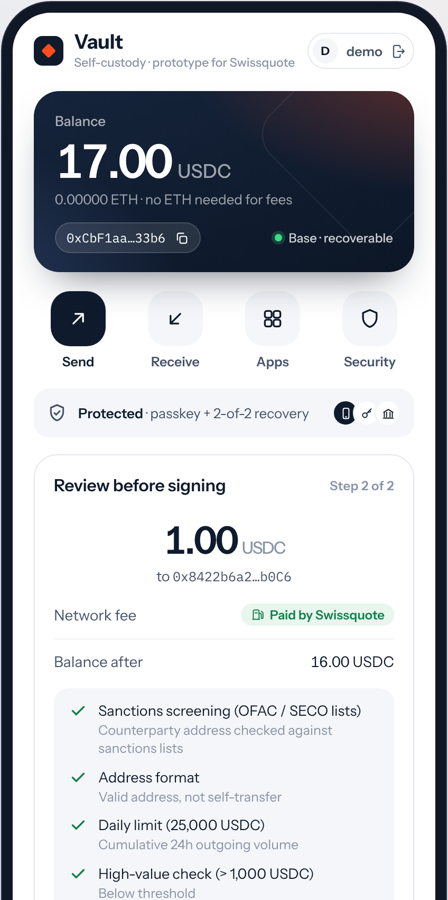
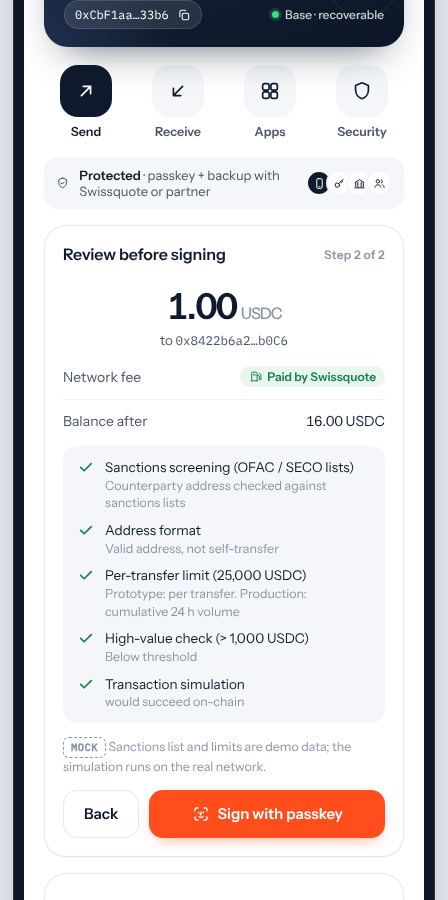
Pre-submission audit: judge-facing overview, team notes separated, fixes
- docs/overview.md: the six required topics on one page; README points to it.
- team-only/: demo script, pitch, cheat sheet, checklist, submission text
  (to delete before the final submission); no judge-facing file links there.
- Recovery addresses are fixed at creation (bank and partner refuse to
  change them); guardians require the on-chain recovery header.
- architecture.md: fix two mermaid diagrams that failed to render.
- Node 22.12+ in run instructions; partner vars in .env.example; favicon;
  removed unused Vite template assets.
- Wording: per-transfer limit, recovery step order, business-case
  sensitivity at the H1 2026 run-rate, stale comments.

Claude-Session: https://claude.ai/code/session_013BkfJFCQ49aivL3knNVtxx

diff --git a/app/src/screens/Recover.tsx b/app/src/screens/Recover.tsx
@@ -21,11 +21,11 @@ import { appendActivity } from "../lib/activity"
  * Lost-phone recovery, as the client experiences it on a NEW device:
  *   1. new passkey            (this device)
  *   2. request to Swissquote  (bank verifies identity, notifies old devices, starts the delay)
- *   3. backup key signature   (checked against the Vault's recovery keys ON-CHAIN first)
+ *   3. backup key signature   (checked against the registered backup key and the on-chain recovery header first)
  *   4. bank signature         (after the delay, unless the old device cancelled; the bank
  *                              verifies the backup approval before it co-signs)
  * Includes a demo of the bonus scenario: an attacker with the stolen phone and email inbox
- * is refused, both by the on-chain key check and by Swissquote.
+ * is refused, both by the backup-key check and by Swissquote.
  *   5. on-chain: passkey replaced, same Vault address, same funds
  */
 export function Recover({
@@ -100,7 +100,7 @@ export function Recover({
     run(async () => {
       if (!prepared) throw new Error("no prepared passkey")
       setAttack(null)
-      // Checked against the Vault's recovery keys on-chain before anything is signed.
+      // Checked against the registered backup key and the on-chain recovery header before anything is signed.
       const check = await checkBackupKey(existing.walletAddress, backupKey, await knownKeys())
       if (!check.ok) throw new Error(check.reason)
       const res = await approveWithBackupKey(existing.walletAddress, check.setup, check.key, prepared.callData)
@@ -235,8 +235,8 @@ export function Recover({
             <>
               <Countdown secondsLeft={secondsLeft} total={total} />
               <p className="hint center-text">
-                <span className="mock-tag">MOCK</span> Delay enforced by the mock Swissquote guardian. Your old devices can cancel during this time. A thief holding your old phone would need your Face ID or
-                your e-banking login to cancel — they have neither.
+                <span className="mock-tag">MOCK</span> Delay enforced by the mock Swissquote guardian. Your old devices can cancel during this time. A thief holding your old phone would need your Face ID (or
+                your e-banking login) to cancel.
               </p>
             </>
           )}

diff --git a/app/src/lib/onchainRecovery.ts b/app/src/lib/onchainRecovery.ts
@@ -1,9 +1,9 @@
 /**
- * The recovery rules, read from and checked against the blockchain.
+ * The recovery rules, checked against the blockchain's recovery header.
  *
  * Pure module (viem only, no browser APIs): used by the app AND by the two guardian
  * services (server/index.ts = Swissquote, server/partner.ts = independent partner),
- * so all three agree on one source of truth: the weighted validator's storage on-chain.
+ * so all three apply the same rules.
  *
  * Recovery keys of a new Vault (threshold 100):
  *   client backup key      60   always required (60 < 100 alone)
@@ -91,7 +91,12 @@ export type KnownKeys = { backup: Address; swissquote: Address; partner?: Addres
  * Note: the validator's per-guardian getter doesn't decode with the SDK's published ABI, so the keys
  * themselves come from the registration; the contract still enforces them on every recovery.
  */
-export async function readRecoverySetup(client: Client, wallet: Address, known: KnownKeys): Promise<RecoverySetup | null> {
+export async function readRecoverySetup(
+  client: Client,
+  wallet: Address,
+  known: KnownKeys,
+  { strict = false }: { strict?: boolean } = {},
+): Promise<RecoverySetup | null> {
   let header: { total: number; threshold: number; count: number } | null = null
   try {
     const [total, threshold, , count] = await readContract(client, {
@@ -102,6 +107,8 @@ export async function readRecoverySetup(client: Client, wallet: Address, known: 
     })
     header = { total: Number(total), threshold: Number(threshold), count: Number(count) }
   } catch (e) {
+    // Guardians (strict) never co-sign without the on-chain check; the app may fall back for display.
+    if (strict) throw new Error("could not read the Vault's recovery setup from the chain; try again")
     console.warn("could not read the recovery header; using the registered configuration", e)
   }
   if (header && (header.threshold === 0 || header.count === 0)) return null

diff --git a/app/server/guardian.ts b/app/server/guardian.ts
@@ -5,11 +5,11 @@
  * Each runs as its own process with its own key and its own storage; the client app never
  * holds either key.
  *
- * Before co-signing, a guardian checks three things against the BLOCKCHAIN, not against its
- * own database: (1) the request is a `doRecovery` call, (2) the client's backup approval is a
- * genuine signature from one of this Vault's recovery keys, and (3) that approval plus its own
- * weight reaches the threshold. So a guardian never helps a request that the chain would refuse,
- * and two guardians together (40 + 40) are refused even before they reach the chain.
+ * Before co-signing, a guardian checks: (1) the request is a `doRecovery` call, (2) the client's
+ * approval is signed by the backup address registered at creation, for this Vault's current recovery
+ * nonce, and (3) the Vault's on-chain recovery header (installed, number of keys, total weight) matches
+ * the registered keys, and the approval plus its own weight reaches the threshold. Two guardians
+ * together (40 + 40) are refused before anything reaches the chain.
  */
 import { createKernelAccount } from "@zerodev/sdk"
 import { getEntryPoint, KERNEL_V3_1 } from "@zerodev/sdk/constants"
@@ -66,7 +66,7 @@ export class Refused extends Error {
 async function setupFor(guardian: LocalAccount, wallet: Address, known: KnownKeys) {
   let setup
   try {
-    setup = await readRecoverySetup(publicClient, wallet, known)
+    setup = await readRecoverySetup(publicClient, wallet, known, { strict: true })
   } catch (e) {
     throw new Refused((e as Error).message)
   }

diff --git a/app/server/index.ts b/app/server/index.ts
@@ -120,6 +120,12 @@ app.post("/wallet", (req, res) => {
     const { walletAddress, backupAddress, partnerAddress, passkeyName } = req.body
     if (!isAddress(walletAddress) || !isAddress(backupAddress)) return res.status(400).send("bad addresses")
     if (partnerAddress !== undefined && !isAddress(partnerAddress)) return res.status(400).send("bad partner address")
+    const c = db.clients[clientId]
+    // A Vault's recovery addresses are fixed at creation: nobody (e.g. someone who reset the
+    // e-banking password) can swap in their own backup address later.
+    if (c.walletAddress?.toLowerCase() === walletAddress.toLowerCase() && c.backupAddress && c.backupAddress.toLowerCase() !== backupAddress.toLowerCase()) {
+      return res.status(409).send("recovery addresses are fixed at creation")
+    }
     // Public addresses only: Swissquote never receives the backup KEY.
     Object.assign(db.clients[clientId], { walletAddress, backupAddress, partnerAddress, passkeyName, recoveredAt: undefined })
     save(db)
@@ -331,7 +337,7 @@ app.get("/compliance/dapps", (_req, res) =>
       url: "https://app.uniswap.org",
       category: "DEX",
       contracts: ["0x94cC0AaC535CCDB3C01d6787D6413C739ae12bc4"],
-      note: "Swap tokens. Reviewed by Swissquote Digital Assets; audited; live since 2018.",
+      note: "Swap tokens. (Demo list) Reviewed by Swissquote; audited; live since 2018.",
     },
     {
       id: "aave",

diff --git a/app/server/partner.ts b/app/server/partner.ts
@@ -95,6 +95,10 @@ app.post("/register", (req, res) => {
   if (existing && existing.holder.toLowerCase() !== holder.trim().toLowerCase()) {
     return res.status(409).send("this Vault is already registered to another holder")
   }
+  // Recovery addresses are fixed at creation: they can't be swapped later.
+  if (existing?.backupAddress && getAddress(backupAddress) !== existing.backupAddress) {
+    return res.status(409).send("recovery addresses are fixed at creation")
+  }
   db.vaults[key(walletAddress)] = {
     holder: holder.trim(),
     registeredAt: existing?.registeredAt ?? Date.now(),
@@ -115,7 +119,7 @@ app.get("/vault/:address", (req, res) => {
 
 // The client asks the partner to co-sign a recovery. Requires: a registered Vault, the holder's identity
 // (mock: client number; production: video identification against the escrowed KYC file), a doRecovery
-// call, and the client's backup approval - verified against the Vault's recovery keys on-chain.
+// call, and the client's backup approval - verified against the registered backup key and the Vault's on-chain recovery header.
 app.post("/recovery/request", async (req, res) => {
   const { walletAddress, holder, callData, newPasskeyName, backupApproval } = req.body ?? {}
   try {

diff --git a/app/server/compliance.ts b/app/server/compliance.ts
@@ -41,7 +41,7 @@ export function screenTransfer(
   const checks = [
     { name: "Sanctions screening (OFAC / SECO lists)", passed: sanctions, detail: "Counterparty address checked against sanctions lists" },
     { name: "Address format", passed: format, detail: "Valid address, not self-transfer" },
-    { name: `Daily limit (${policy.dailyLimitUsdc.toLocaleString("en-US")} USDC)`, passed: limit, detail: "Cumulative 24h outgoing volume" },
+    { name: `Per-transfer limit (${policy.dailyLimitUsdc.toLocaleString("en-US")} USDC)`, passed: limit, detail: "Prototype: per transfer. Production: cumulative 24 h volume" },
     {
       name: `High-value check (> ${policy.highValueUsdc.toLocaleString("en-US")} USDC)`,
       passed: highValue,
@@ -61,7 +61,7 @@ export function screenTransfer(
   }
   if (!limit) {
     decision = "block"
-    reasons.push(amount > policy.dailyLimitUsdc ? "Exceeds daily limit" : "Invalid amount")
+    reasons.push(amount > policy.dailyLimitUsdc ? "Exceeds the transfer limit" : "Invalid amount")
   }
   if (decision === "allow" && !highValue) {
     decision = "review"

diff --git a/app/src/preview.tsx b/app/src/preview.tsx
@@ -55,7 +55,7 @@ window.fetch = async (input: RequestInfo | URL, init?: RequestInit) => {
         checks: [
           { name: "Sanctions screening (OFAC / SECO lists)", passed: !sanctioned, detail: "Counterparty address checked against sanctions lists" },
           { name: "Address format", passed: true, detail: "Valid address, not self-transfer" },
-          { name: "Daily limit (25,000 USDC)", passed: true, detail: "Cumulative 24h outgoing volume" },
+          { name: "Per-transfer limit (25,000 USDC)", passed: true, detail: "Prototype: per transfer. Production: cumulative 24 h volume" },
           { name: "High-value check (> 1,000 USDC)", passed: amount <= 1000, detail: amount > 1000 ? "Requires e-banking confirmation (step-up authentication)" : "Below threshold" },
         ],
       })

diff --git a/app/src/lib/recovery.ts b/app/src/lib/recovery.ts
@@ -63,8 +63,8 @@ export async function prepareNewPasskey(newPasskeyName: string) {
 }
 
 /**
- * Checks a backup key against the Vault's recovery keys AS STORED ON-CHAIN, before anything
- * is signed or sent. This is where an attacker with a stolen phone and inbox is refused:
+ * Checks a backup key against the backup address registered at creation and the Vault's on-chain
+ * recovery header, before anything is signed or sent. This is where an attacker with a stolen phone and inbox is refused:
  * neither holds the backup key, and no other key is accepted by the validator contract.
  */
 export async function checkBackupKey(walletAddress: Address, backupPrivateKey: string, known: KnownKeys) {

diff --git a/app/src/App.tsx b/app/src/App.tsx
@@ -267,7 +267,7 @@ export function StageAside() {
       </div>
       <div className="realmock">
         <div><b>Real, on Base Sepolia</b>Passkeys · smart account · recovery rules · gasless transactions · simulation</div>
-        <div><b><span className="mock-tag">MOCK</span> labelled in the app</b>Bank login & 2FA · guardian HSMs · partner’s ID check · sanctions list</div>
+        <div><b><span className="mock-tag">MOCK</span> labelled in the app</b>Bank login & 2FA · guardian HSMs · partner’s ID check · sanctions & dApp lists</div>
       </div>
       <div className="meta">
         <span className="pill dot ok">Live on Base Sepolia</span>

diff --git a/app/tests/compliance.test.ts b/app/tests/compliance.test.ts
@@ -27,7 +27,7 @@ describe("pre-signature compliance", () => {
     expect(screenTransfer({ from: me, to: me.toLowerCase(), amountUsdc: "1" }, policy).decision).toBe("block")
   })
 
-  it("blocks above the daily limit and zero/negative amounts", () => {
+  it("blocks above the transfer limit and zero/negative amounts", () => {
     expect(screenTransfer({ from: me, to: friend, amountUsdc: "25001" }, policy).decision).toBe("block")
     expect(screenTransfer({ from: me, to: friend, amountUsdc: "0" }, policy).decision).toBe("block")
     expect(screenTransfer({ from: me, to: friend, amountUsdc: "-3" }, policy).decision).toBe("block")

diff --git a/app/index.html b/app/index.html
@@ -3,6 +3,7 @@
   <head>
     <meta charset="UTF-8" />
     <meta name="viewport" content="width=device-width, initial-scale=1.0" />
+    <link rel="icon" type="image/svg+xml" href="/favicon.svg" />
     <title>Swissquote Vault</title>
   </head>
   <body>

diff --git a/docs/overview.md b/docs/overview.md
@@ -1,0 +1,59 @@
+# Swissquote Vault: overview for judges
+
+One page answering the six required topics of the Swissquote Wallet challenge, in order. Each answer links to the detailed document.
+
+**The story, live on Base Sepolia:** create a Vault → sign in and sign a real transaction → lose the phone → recover. Same address, same funds. A Vault with a real recovery transaction: [0xf47c…Cd9a on Basescan](https://sepolia.basescan.org/address/0xf47c2936C39953118BFcED58A4852ff29447Cd9a).
+
+## 1. Custody model and threat model
+
+An ERC-4337 smart account (ZeroDev Kernel v3.1) whose only spending key is a **passkey** in the phone's secure chip, unlocked with Face ID. Recovery keys can do one thing only, enforced by the account on-chain: replace a lost passkey.
+
+| Recovery key | Held by | Weight |
+| --- | --- | --- |
+| Backup key | The client, offline | 60 |
+| Guardian key | Swissquote | 40 |
+| Guardian key | An independent recovery partner | 40 |
+
+Recovery needs 100. The client's backup key is always required; **Swissquote alone, or Swissquote together with the partner (80), can never move or recover the funds.**
+
+- **Who could steal funds?** Only someone with the unlocked phone and the client's biometrics, or someone holding the backup key *and* a guardian's co-signature who also survives a waiting period during which the client is alerted and can cancel.
+- **Who could lock the client out?** Nobody can take the passkey away without a recovery. The real risk is the client losing both the phone and the backup kit.
+- **Could Swissquote move the funds without the client, alone or with a partner?** No, on-chain: 40, or 40 + 40 = 80, is below the threshold.
+
+Model choice with pros and cons against custodial, seed phrase, MPC and Shamir: [custody-model.md](custody-model.md). 18 attack scenarios: [threat-model.md](threat-model.md).
+
+## 2. Architecture
+
+Diagram with every mocked part marked `[MOCK]`: [architecture.md](architecture.md). What is real and what is mocked: [mocks.md](mocks.md).
+
+- **Real, on Base Sepolia:** passkeys, the smart account, the recovery validator, gasless transfers and dApp approvals, transaction simulation, the ownership proof.
+- **Mocked:** bank login and 2FA, the two guardians' key storage, the partner's identity check, the sanctions and dApp lists. The Swissquote guardian and the partner each run as **their own process with their own storage**; the app never holds a guardian key. Mocked steps are labelled MOCK in the app.
+
+## 3. Wallet creation
+
+After the client signs in to Swissquote, Face ID creates a passkey: the private key is generated inside the secure enclave and never leaves it. The backup key is generated on the device and shown once; Swissquote never sees it. The Vault address and the public recovery addresses are registered to the KYC'd client at creation, so wallet and identity are linked from the first block. One sponsored transaction then deploys the account and installs recovery.
+
+## 4. Authentication
+
+Every signature needs the passkey (biometric user verification), and WebAuthn binds it to Swissquote's domain, so a phishing site can't use it. **Small transfers: Face ID. Above 1,000 USDC: also the Swissquote security code** (step-up). Before every signature: sanctions screening, limits and an on-chain simulation. Details: [architecture.md](architecture.md), "Authentication before signing".
+
+## 5. Recovery
+
+Swissquote login → new passkey → recovery request (every device that still holds the old passkey is alerted and can cancel with a passkey-signed veto) → the client's backup key approves → after the waiting period (48 h in production, 30 s in the demo) Swissquote verifies the backup approval and co-signs → `doRecovery` installs the new passkey.
+
+- **Attacker with the stolen phone and email:** refused, shown live. Their key isn't the backup key, so the app refuses, Swissquote refuses to co-sign, and the on-chain rules would reject it anyway.
+- **If Swissquote's services are permanently gone:** the passkey keeps signing without any Swissquote server, and a lost phone is recovered with the backup kit plus the independent partner (60 + 40). Shown live by switching the Swissquote service off.
+
+Details: [threat-model.md](threat-model.md), [legal-swiss.md](legal-swiss.md) ("If Swissquote stops operating").
+
+## 6. Business case
+
+Today self-custody clients withdraw to MetaMask and take their activity elsewhere. Vault keeps them, and their trading, one tap from Swissquote; earns on swaps through approved routes; and attracts crypto-native clients. Crypto brought Swissquote CHF 85.7 m in 2025 and fell 66% in H1 2026. With labelled assumptions: about **CHF 1.28 m contribution in year 1 and CHF 5.06 m in year 3** (still CHF 0.71 m / 3.34 m at the weaker H1 2026 crypto run-rate), against CHF 0.34–0.41 m running cost; sponsoring gas costs under CHF 1 per user per year. Details: [business-case.md](business-case.md).
+
+## Custody, the Travel Rule, and the bonus topics
+
+- **Custody:** Swissquote never holds the key that moves funds and its signature is never needed for a transfer, so Vault sits on the non-custodial side of FINMA practice. The "Swissquote plus a partner" grey zone is closed on-chain.
+- **Travel Rule:** transfers between the client's Swissquote account and their own Vault go to a self-hosted wallet whose ownership is **verified by construction**: created in the KYC session, plus a one-tap ownership proof verified on-chain. For payments the client signs from the Vault to third parties, Swissquote is not the sending institution. Details: [legal-swiss.md](legal-swiss.md).
+- **Gasless transactions:** every operation is paid by a paymaster funded by Swissquote; the client never holds ETH. Abuse prevention: [architecture.md](architecture.md), "Gas sponsorship".
+- **Compliant dApp interaction:** approved-dApp list with unknown sites blocked, limited approvals that can be revoked, sanctions screening, plain-language simulation, step-up above 1,000 USDC.
+- **Recovery that refuses an attacker with the stolen phone and email:** shown live (section 5).
